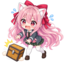
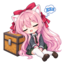
feat: Updated illustration resources

diff --git a/agent/javafx/ui.css b/agent/javafx/ui.css
@@ -563,8 +563,13 @@
     -fx-text-fill: #A8B0BA;
 }
 
-.dialog-pane > .content.label {
+.dialog-pane > .content.label,
+.dialog-pane .dialog-message {
     -fx-font-size: 13px;
+}
+
+.dialog-content-with-art {
+    -fx-alignment: center-left;
 }
 
 .help-dialog {

diff --git a/agent/src/com/zack88604/autoupdater/gui/javafx/JavaFxUpdateView.java b/agent/src/com/zack88604/autoupdater/gui/javafx/JavaFxUpdateView.java
@@ -21,6 +21,7 @@ import javafx.beans.binding.Bindings;
 import javafx.geometry.Insets;
 import javafx.geometry.Pos;
 import javafx.geometry.Rectangle2D;
+import javafx.scene.Node;
 import javafx.scene.Scene;
 import javafx.scene.control.Alert;
 import javafx.scene.control.Button;
@@ -199,6 +200,8 @@ final class JavaFxUpdateView implements UpdateView {
     private static final String IMG_CLEANING = "/images/cleaning.png";
     private static final String IMG_SUCCESS = "/images/success.png";
     private static final String IMG_ERROR = "/images/error.png";
+    private static final String IMG_POPUP = "/images/popup.png";
+    private static final String IMG_TROUBLE = "/images/trouble.png";
 
     // Overall progress area
     private final Label lblStatus = new Label("Preparing update…");
@@ -1091,7 +1094,7 @@ final class JavaFxUpdateView implements UpdateView {
         IMG_PREPARING, IMG_UPDATER, IMG_CHECKING, IMG_DOWNLOADING,
         IMG_DOWNLOADING_WAITING[0], IMG_DOWNLOADING_WAITING[1],
         IMG_DOWNLOADING_WAITING[2],
-        IMG_CLEANING, IMG_SUCCESS, IMG_ERROR,
+        IMG_CLEANING, IMG_SUCCESS, IMG_ERROR, IMG_POPUP, IMG_TROUBLE,
     };
 
     /**
@@ -1389,9 +1392,10 @@ final class JavaFxUpdateView implements UpdateView {
         Label header = new Label("Quit update?");
         header.getStyleClass().add("dialog-header");
         alert.getDialogPane().setHeader(header);
-        alert.setContentText("Skipping will restore files changed during this update and verify "
+        alert.getDialogPane().setContent(dialogContentWithIllustration(dialogMessage(
+                "Skipping will restore files changed during this update and verify "
                 + "the last trusted version. Keep this window open; Minecraft will start only "
-                + "if verification succeeds.");
+                + "if verification succeeds."), IMG_POPUP));
         ButtonType stay = new ButtonType("Keep updating", ButtonBar.ButtonData.OK_DONE);
         quitSkipType = new ButtonType("Skip update", ButtonBar.ButtonData.OTHER);
         alert.getButtonTypes().setAll(stay, quitSkipType);
@@ -1436,7 +1440,7 @@ final class JavaFxUpdateView implements UpdateView {
             item.setMaxWidth(360);
             suggestions.getChildren().add(item);
         }
-        alert.getDialogPane().setContent(suggestions);
+        alert.getDialogPane().setContent(dialogContentWithIllustration(suggestions, IMG_TROUBLE));
 
         ButtonType close = new ButtonType("Close", ButtonBar.ButtonData.CANCEL_CLOSE);
         alert.getButtonTypes().setAll(close);
@@ -1485,10 +1489,10 @@ final class JavaFxUpdateView implements UpdateView {
         Label header = new Label("Update failed");
         header.getStyleClass().add("dialog-header");
         alert.getDialogPane().setHeader(header);
-        alert.setContentText(displayOrDefault(state.getErrorMessage(),
-                "The update could not be completed.")
+        alert.getDialogPane().setContent(dialogContentWithIllustration(dialogMessage(
+                displayOrDefault(state.getErrorMessage(), "The update could not be completed.")
                 + "\n\nYou can exit, or try the last trusted version. Minecraft starts only "
-                + "after its signed manifest and every local resource are verified.");
+                + "after its signed manifest and every local resource are verified."), IMG_POPUP));
 
         recoveryTrustedType = new ButtonType("Use trusted version", ButtonBar.ButtonData.OK_DONE);
         ButtonType exit = new ButtonType("Exit", ButtonBar.ButtonData.CANCEL_CLOSE);
@@ -1528,6 +1532,45 @@ final class JavaFxUpdateView implements UpdateView {
                 newScene.setFill(Color.TRANSPARENT);
             }
         });
+    }
+
+    /** A wrapping text node for dialog copy placed beside the popup art. */
+    private static Label dialogMessage(String text) {
+        Label message = new Label(text);
+        message.setWrapText(true);
+        message.setMaxWidth(360);
+        message.getStyleClass().add("dialog-message");
+        return message;
+    }
+
+    /**
+     * Place the requested character illustration to the left of a dialog's original
+     * content. It uses the same 64x64 fit, ratio preservation and smoothing as
+     * the main status illustration. A missing image safely leaves the original
+     * dialog content unchanged.
+     */
+    private Node dialogContentWithIllustration(Node content, String resource) {
+        Image image = statusImages.get(resource);
+        if (image == null) {
+            return content;
+        }
+        ImageView illustration = new ImageView(image);
+        illustration.setPreserveRatio(true);
+        illustration.setSmooth(true);
+        illustration.setFitWidth(STATUS_IMAGE_SIZE);
+        illustration.setFitHeight(STATUS_IMAGE_SIZE);
+        illustration.getStyleClass().add("status-image");
+
+        StackPane illustrationSlot = new StackPane(illustration);
+        illustrationSlot.setMinSize(STATUS_IMAGE_SIZE, STATUS_IMAGE_SIZE);
+        illustrationSlot.setPrefSize(STATUS_IMAGE_SIZE, STATUS_IMAGE_SIZE);
+        illustrationSlot.setMaxSize(STATUS_IMAGE_SIZE, STATUS_IMAGE_SIZE);
+
+        HBox row = new HBox(16, illustrationSlot, content);
+        row.setAlignment(Pos.CENTER_LEFT);
+        HBox.setHgrow(content, Priority.ALWAYS);
+        row.getStyleClass().add("dialog-content-with-art");
+        return row;
     }
 
     private static String displayOrDefault(String value, String fallback) {
